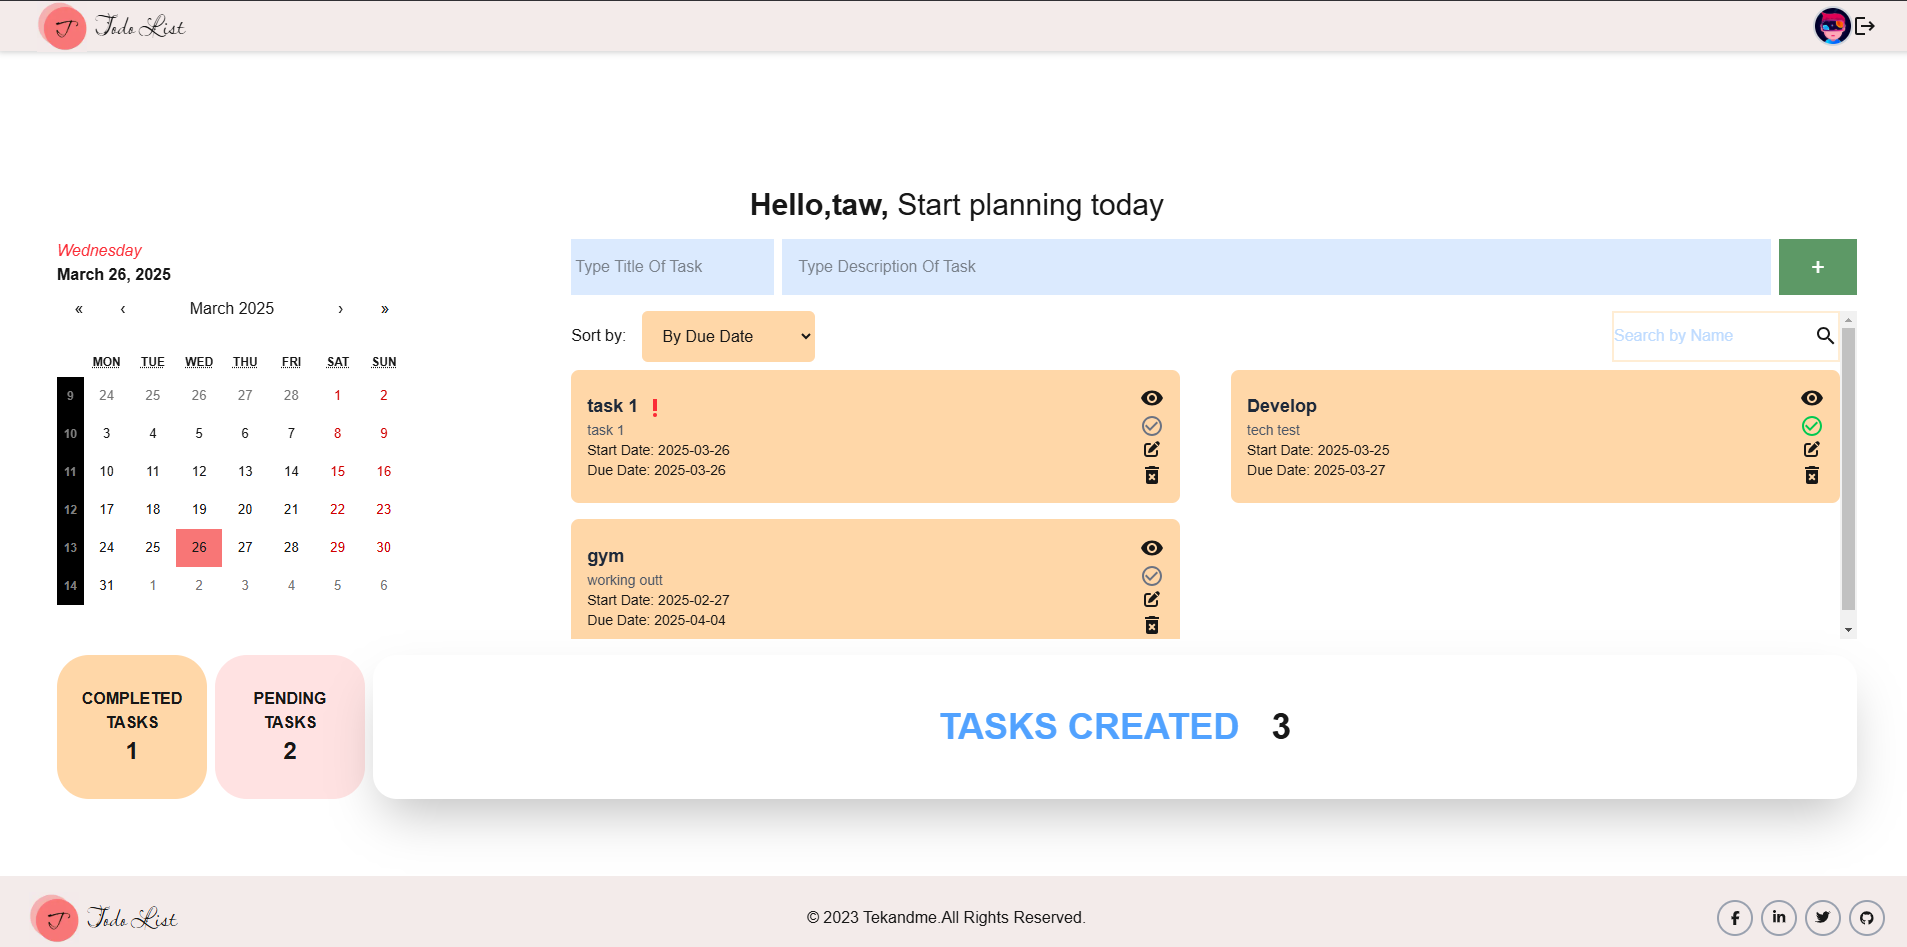
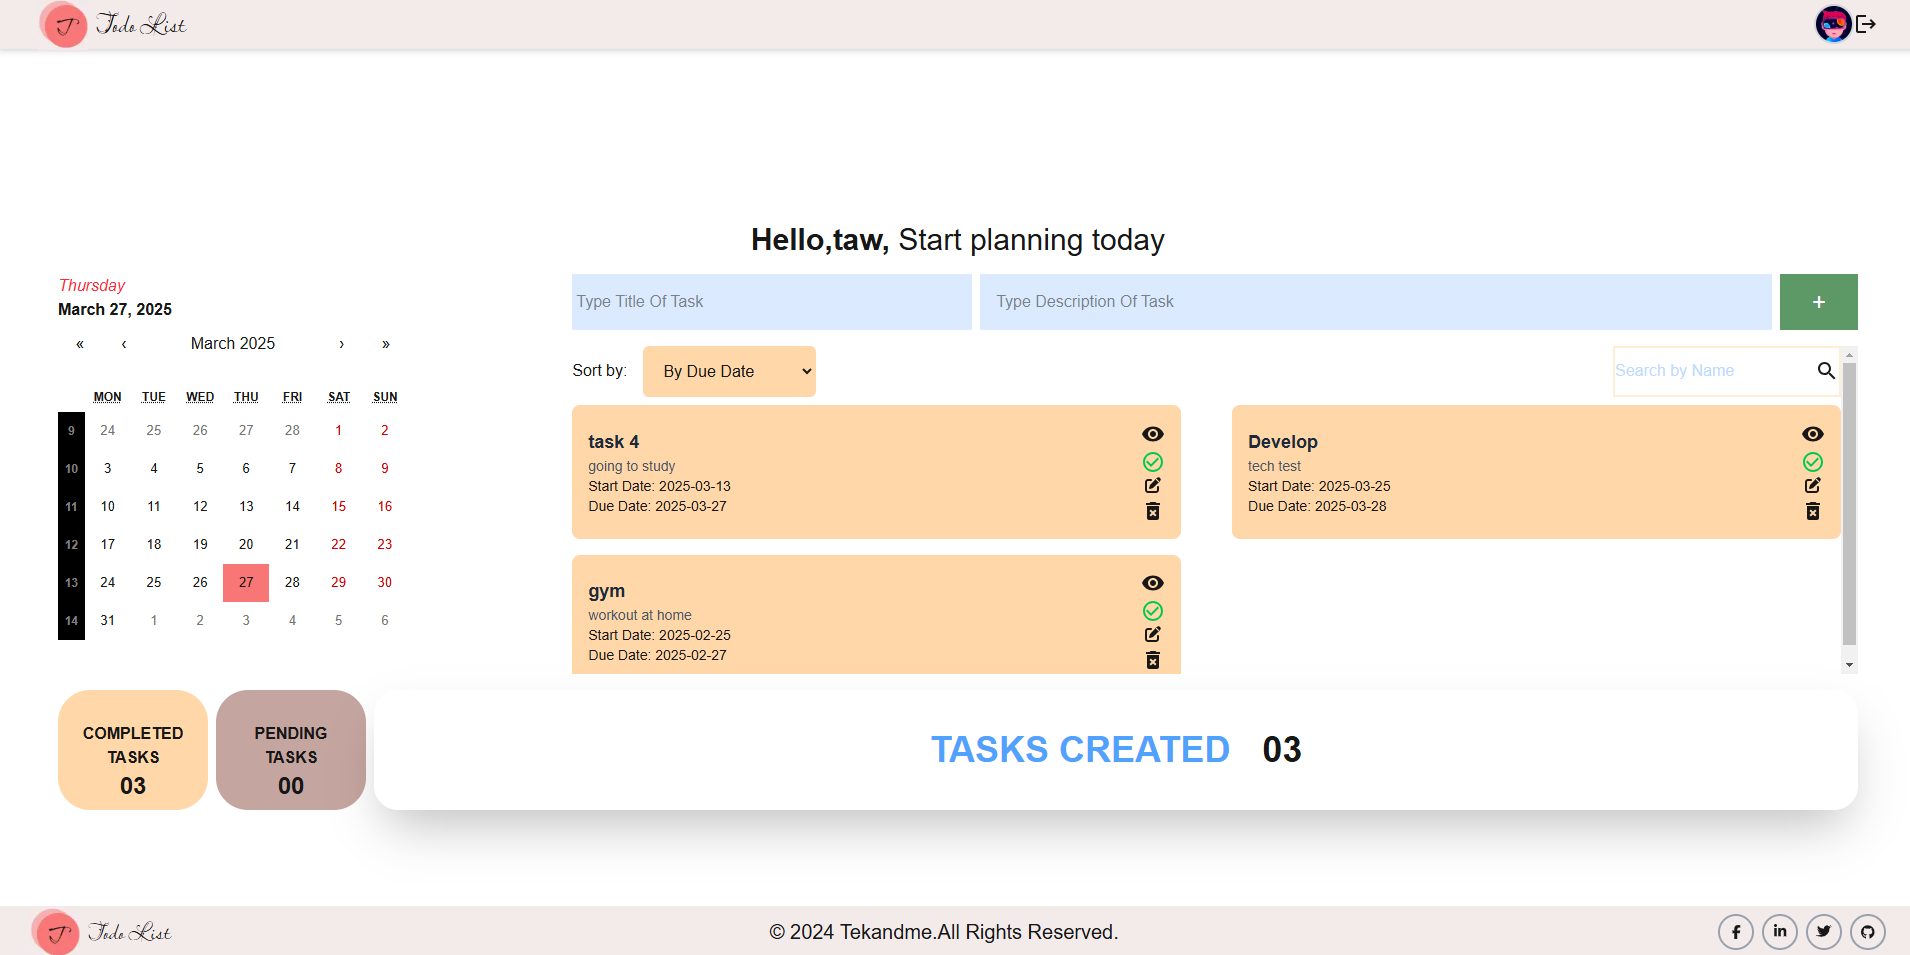
fix(styles): correct button hover color for better visibility

diff --git a/frontend/src/app/register/page.tsx b/frontend/src/app/register/page.tsx
@@ -5,6 +5,7 @@ import {BASE_URL} from "../utils/utils"
 import { useRouter } from 'next/navigation'
 import Link from "next/link";
 import { toast } from "react-toastify";
+import Image from "next/image";
 
 const Register = () => {
     const [userInfo, setUserInfo] = useState({
@@ -40,16 +41,14 @@ const Register = () => {
         
   return (
     <div className="flex items-center h-screen">
-        <div className="top">
-            <img className="logo" src='https://assets.stickpng.com/images/580b57fcd9996e24bc43c529.png' />
-        </div>
-        <div className="flex items-center justify-center w-[400px] mx-auto  shadow-md h-[500px] p-4 bg-orange-100">
+        <div className="flex flex-col items-center justify-center  gap-2 w-[400px] mx-auto shadow-2xl shadow-dark-300 h-[500px] p-4 bg-orange-100">
+        <Image width={50} height={50} className="logo" src='/logo.webp' alt="logo" />
+               <h1>Sign Up</h1>
            <form className="flex flex-col gap-4">
-              <h1>Sign Up</h1>
               <input className="p-2 border rounded-l" type={"name"} onChange={handleChange} name="username" placeholder="username"/>
               <input className="p-2 border rounded-l" type={"email"} onChange={handleChange} name="email" placeholder="email"/>
               <input className="p-2 border rounded-l" type={"password"} onChange={handleChange} name="password" placeholder="password"/>
-              <button className="py-2 px-4 bg-orange-200 cursor-pointer" onClick={handleSubmit}>Sign Up</button>
+              <button className="py-2 px-4 bg-orange-200 hover:opacity-90 cursor-pointer" onClick={handleSubmit}>Sign Up</button>
               <span>You have an account?<b><Link href="/login">Sign in now</Link></b> </span>
            </form>
         </div>

diff --git a/frontend/src/app/login/page.tsx b/frontend/src/app/login/page.tsx
@@ -7,6 +7,7 @@ import Cookies from "js-cookie";
 import { useUser } from "../context/AuthContext";
 import Link from "next/link";
 import { toast } from "react-toastify";
+import Image from "next/image";
 
 const Login = () => {
   const {loading,setloading, setUserInfo: setContextUserInfo } = useUser();
@@ -56,15 +57,13 @@ const Login = () => {
   
   return (
     <div className="flex items-center h-screen">
-        <div className="top">
-            <img className="logo" src='https://assets.stickpng.com/images/580b57fcd9996e24bc43c529.png' />
-        </div>
-        <div className="flex items-center justify-center w-[400px] mx-auto  h-[500px] p-4  bg-orange-100">
+        <div className="flex flex-col items-center justify-center  gap-2 w-[400px] mx-auto shadow-2xl shadow-dark-300 h-[500px] p-4 bg-orange-100">
+        <Image width={50} height={50} className="logo" src='/logo.webp' alt="logo" />
+            <h1>Sign In</h1>
            <form className="flex flex-col gap-4">
-              <h1>Sign In</h1>
               <input className="p-2 border rounded-l" type={"email"} onChange={handleChange} name="email" placeholder="email"/>
               <input className="p-2 border rounded-l" type={"password"} onChange={handleChange} name="password" placeholder="password"/>
-              <button className="py-2 px-4 bg-orange-200 cursor-pointer"  onClick={handleSubmit}>Sign In</button>
+              <button className="py-2 px-4 bg-orange-200 hover:opacity-90  cursor-pointer"  onClick={handleSubmit}>Sign In</button>
               <span>No account?<b><Link href="/register">Sign up now</Link></b> </span>
            </form>
         </div>

diff --git a/frontend/src/app/components/AddTask.tsx b/frontend/src/app/components/AddTask.tsx
@@ -66,8 +66,8 @@ const AddTask = ({userId,date}:any) => {
     <input onChange={(e)=>setDescription(e.target.value)} className="flex-1  w-1/3 p-4 bg-blue-100" type="text" placeholder="Type Description Of Task" />
   </div>
     <span className='block md:hidden text-red-400' style={{fontFamily:"Lavishly Yours",fontSize:30}}>{new Date().toLocaleString("en-US", { weekday: "long" })}</span>
-    <button onClick={handleSubmit} className="hidden md:block py-2 px-8 bg-[#5d9966] text-white cursor-pointer"><span className="text-2xl">+</span></button>
-    <button onClick={handleOpenModal} className="block md:hidden  py-2 px-8 bg-[#5d9966] text-white cursor-pointer"><span className="text-2xl">+</span></button>
+    <button onClick={handleSubmit} className="hidden md:block py-2 px-8 bg-[#5d9966] hover:bg-[#5d9966e3] text-white cursor-pointer"><span className="text-2xl">+</span></button>
+    <button onClick={handleOpenModal} className="block md:hidden  py-2 px-8 bg-[#5d9966] hover:bg-[#5d9966e3] text-white cursor-pointer"><span className="text-2xl">+</span></button>
     {openModal && (
         <TaskModal userId={userId.toString()} edit={false} task={null} onClose={handleCloseModal } />
       )}

diff --git a/frontend/src/app/components/TaskStatus.tsx b/frontend/src/app/components/TaskStatus.tsx
@@ -16,7 +16,7 @@ const TaskStatus = () => {
                 <span className='text-2xl'>{String(completedTasks).padStart(2, '0')}</span>
                 </h1>
             </div>
-            <div className='bg-red-100 font-bold rounded-4xl p-4 w-full md:w-[150px] h-[120px] md:h-[120px]'>
+            <div className='bg-[#c5a59f] font-bold rounded-4xl p-4 w-full md:w-[150px] h-[120px] md:h-[120px]'>
                 <h1 className='flex flex-col items-center p-4 text-center'>
                 <span>PENDING TASKS</span>
                 <span className='text-2xl'>{String(pendingTasks).padStart(2, '0')}</span>

diff --git a/frontend/tailwind.config.ts b/frontend/tailwind.config.ts
@@ -22,6 +22,7 @@ const config = {
     },
     extend: {
       colors: {
+        primary:"#c5a59f",
         blue: {
           100: '#dae3ef',
           200: '#0c8ce9',
